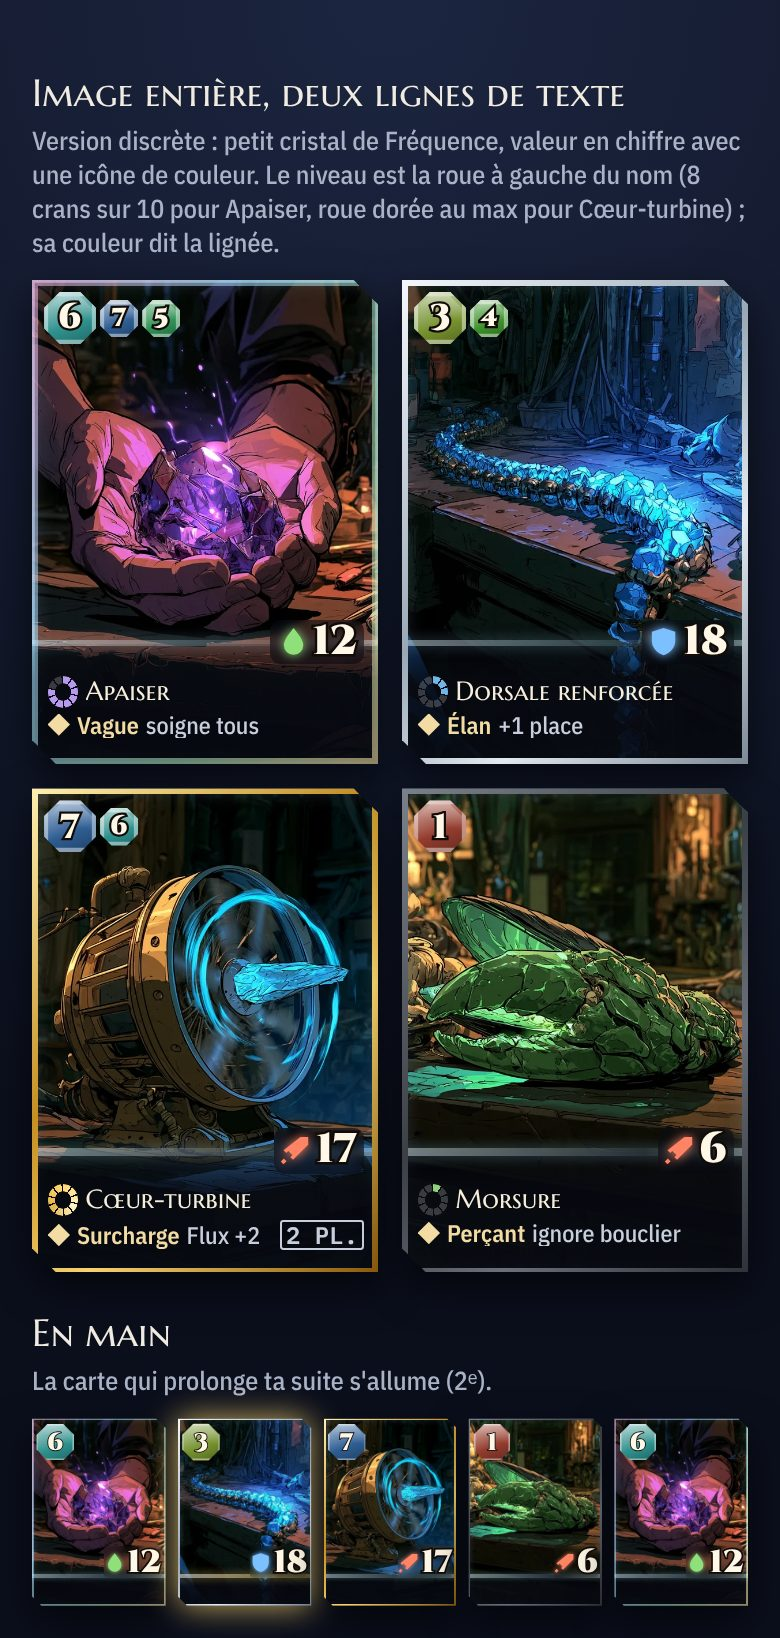
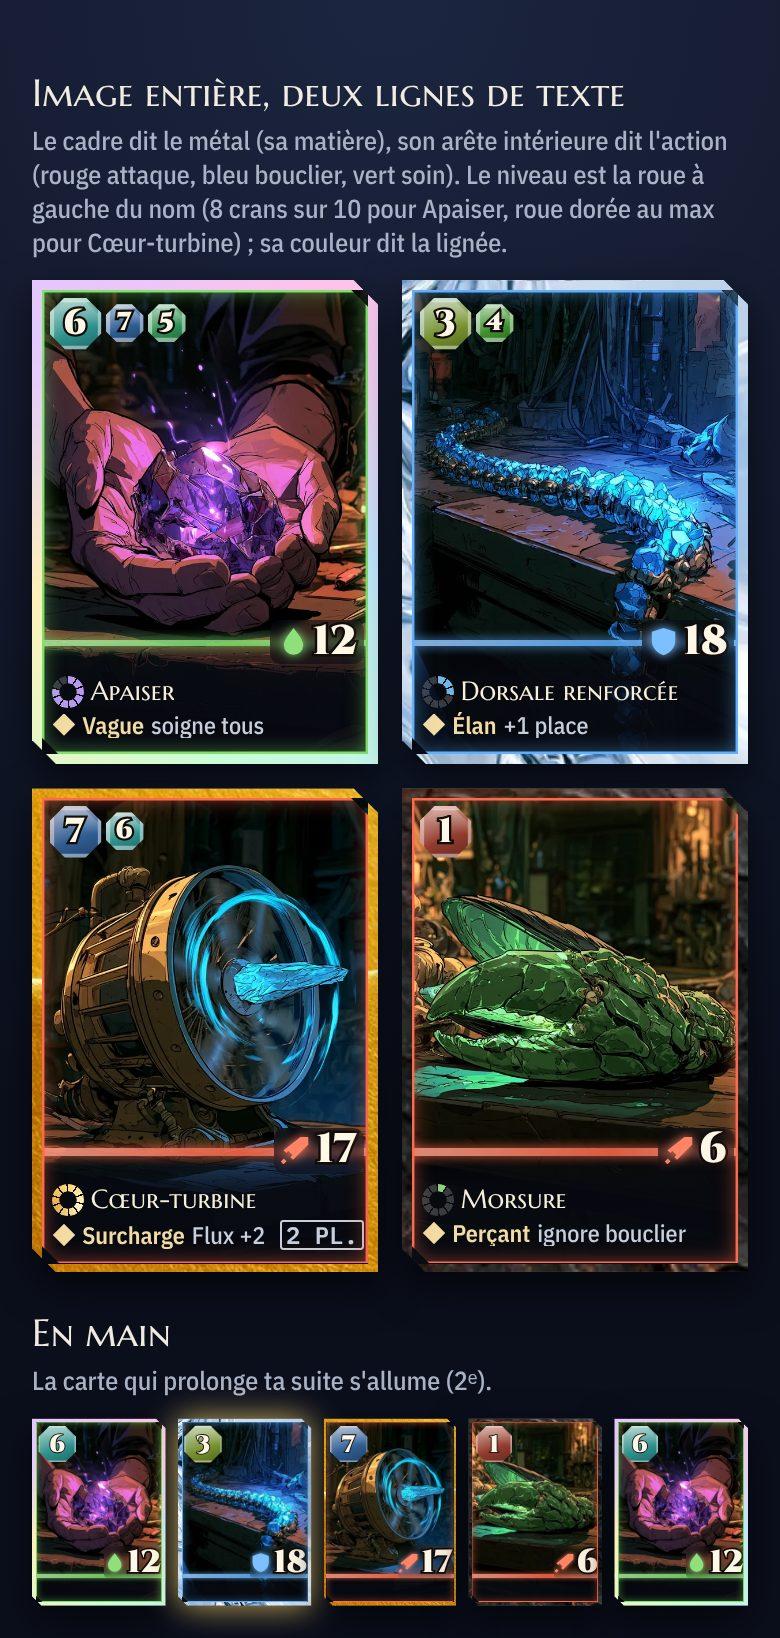
Carte optimale : cadre dans la matière du métal, arête de la couleur de l'action
Claude-Session: https://claude.ai/code/session_01YVrYiWrba2w3WDzans6RUz

Changed region(s): [[0.0308, 0.0623, 0.9846, 0.7784], [0.0308, 0.8407, 0.9846, 0.9963]]

diff --git a/docs/carte-optimale.md b/docs/carte-optimale.md
@@ -90,7 +90,9 @@ socles peints actuels (éclat, écu, couronne de feuilles) ont aussi été écar
 
 **Décision : la carte n'a plus besoin d'aucune image Midjourney en dehors de l'illustration.** Tout le reste est dessiné
 par le code, net à toutes les tailles :
-- le liseré du métal (dégradé ou texture `public/art/metaux/`) ;
+- le cadre dans la matière du métal (texture `public/art/metaux/`, 2,8 % de la largeur, nacre irisée) : on reconnaît le
+  métal d'un coup d'œil ; son arête intérieure et la couture prennent la couleur de l'action (rouge attaque, bleu
+  bouclier, vert soin) : on reconnaît l'action aussi (demande de Bryan : « les deux ») ;
 - les cristaux de Fréquence, petits (15 % de la largeur, les autres Fréquences à 11 %), en ligne en haut à gauche ;
 - la valeur : le chiffre seul, avec une petite icône de couleur posée à sa gauche — épée rouge (attaque), écu bleu
   (bouclier), goutte verte (soin) — sur une pastille de verre fumé, au-dessus de la couture à droite ;
